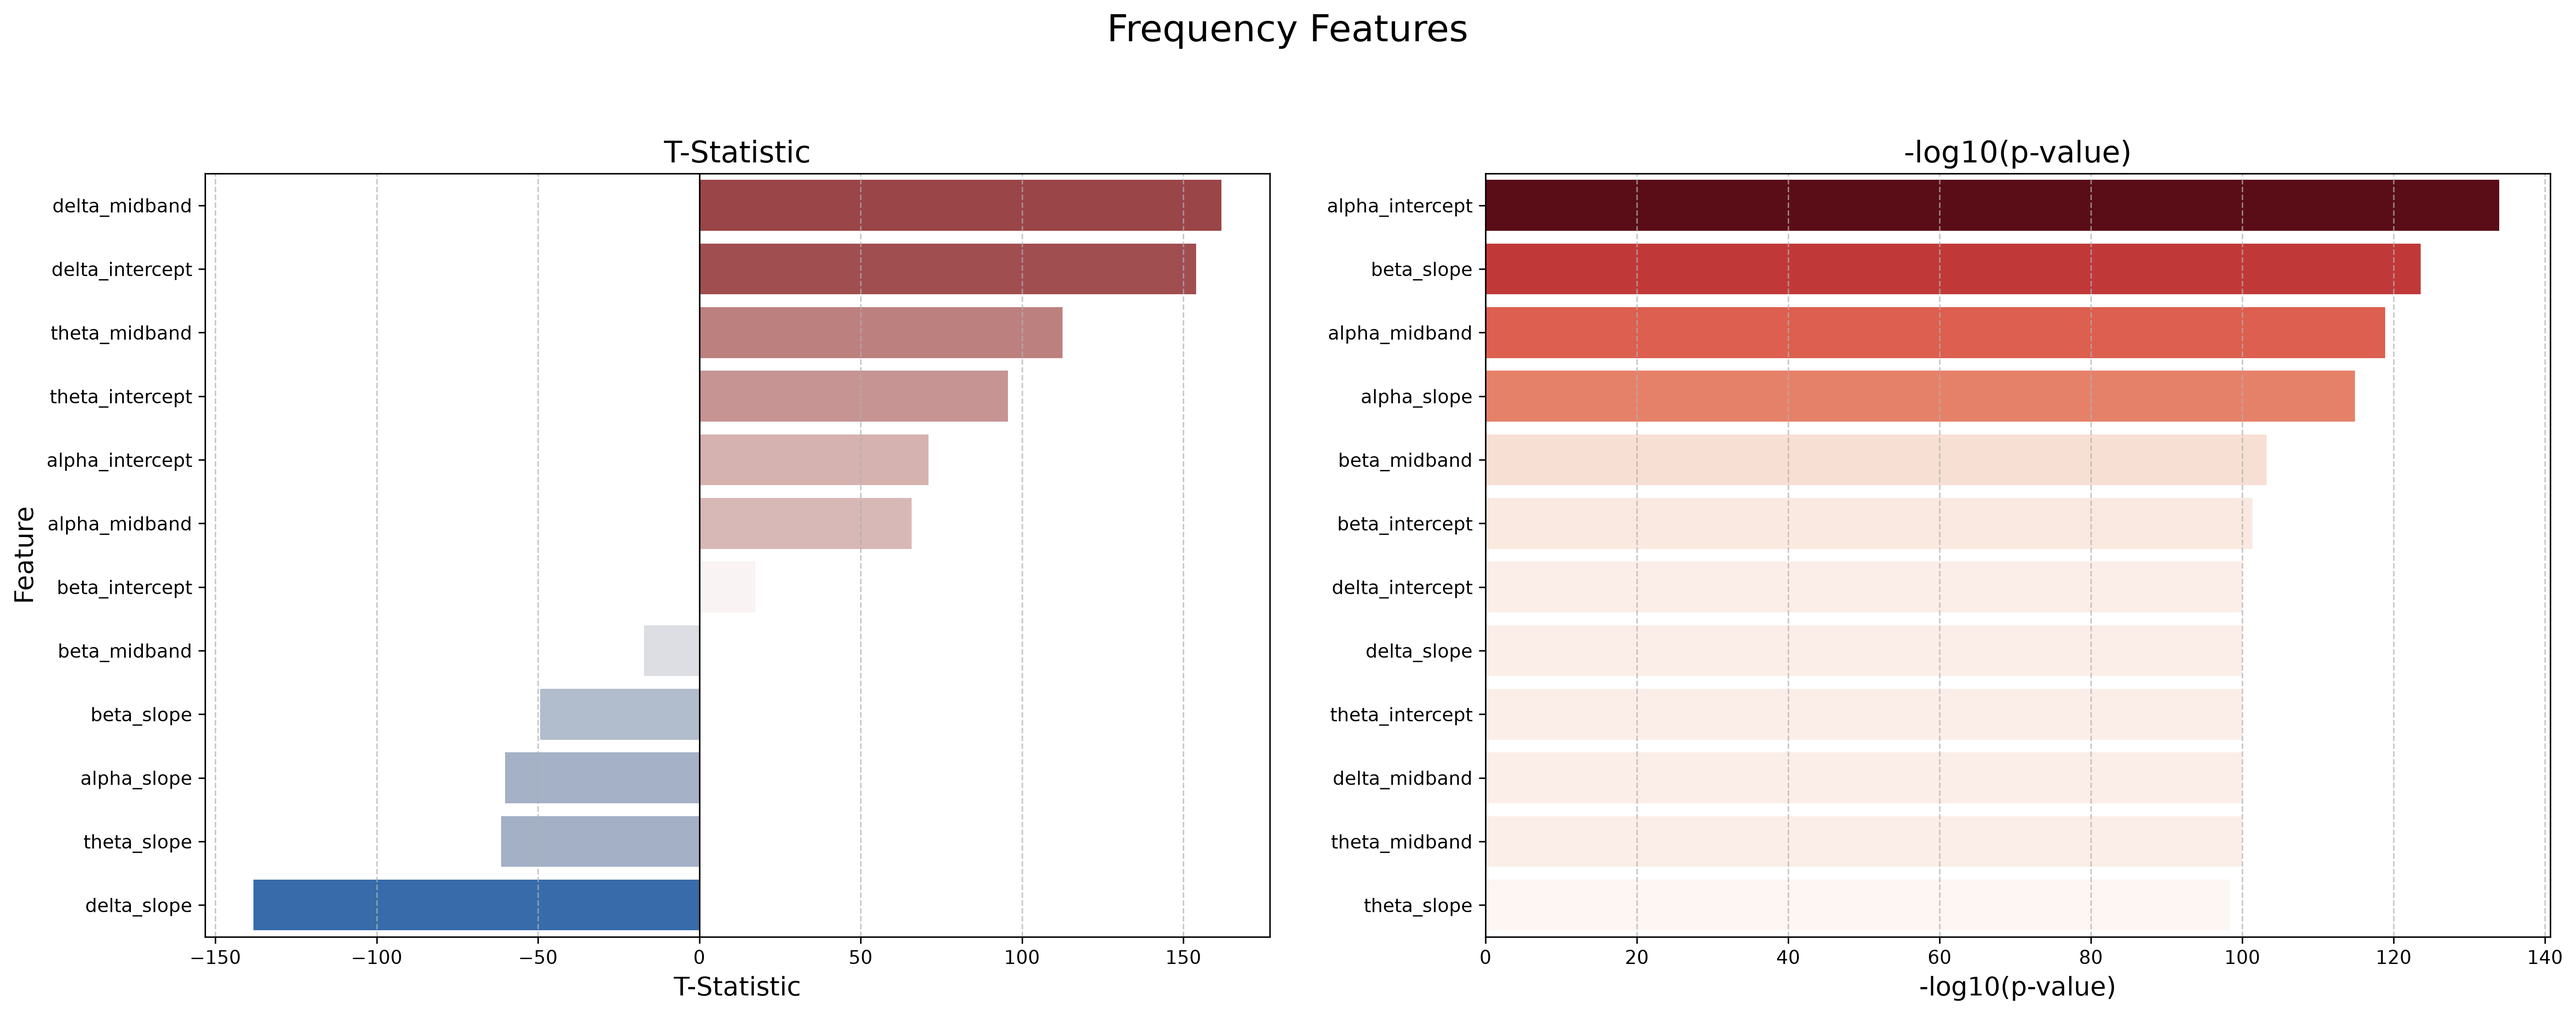
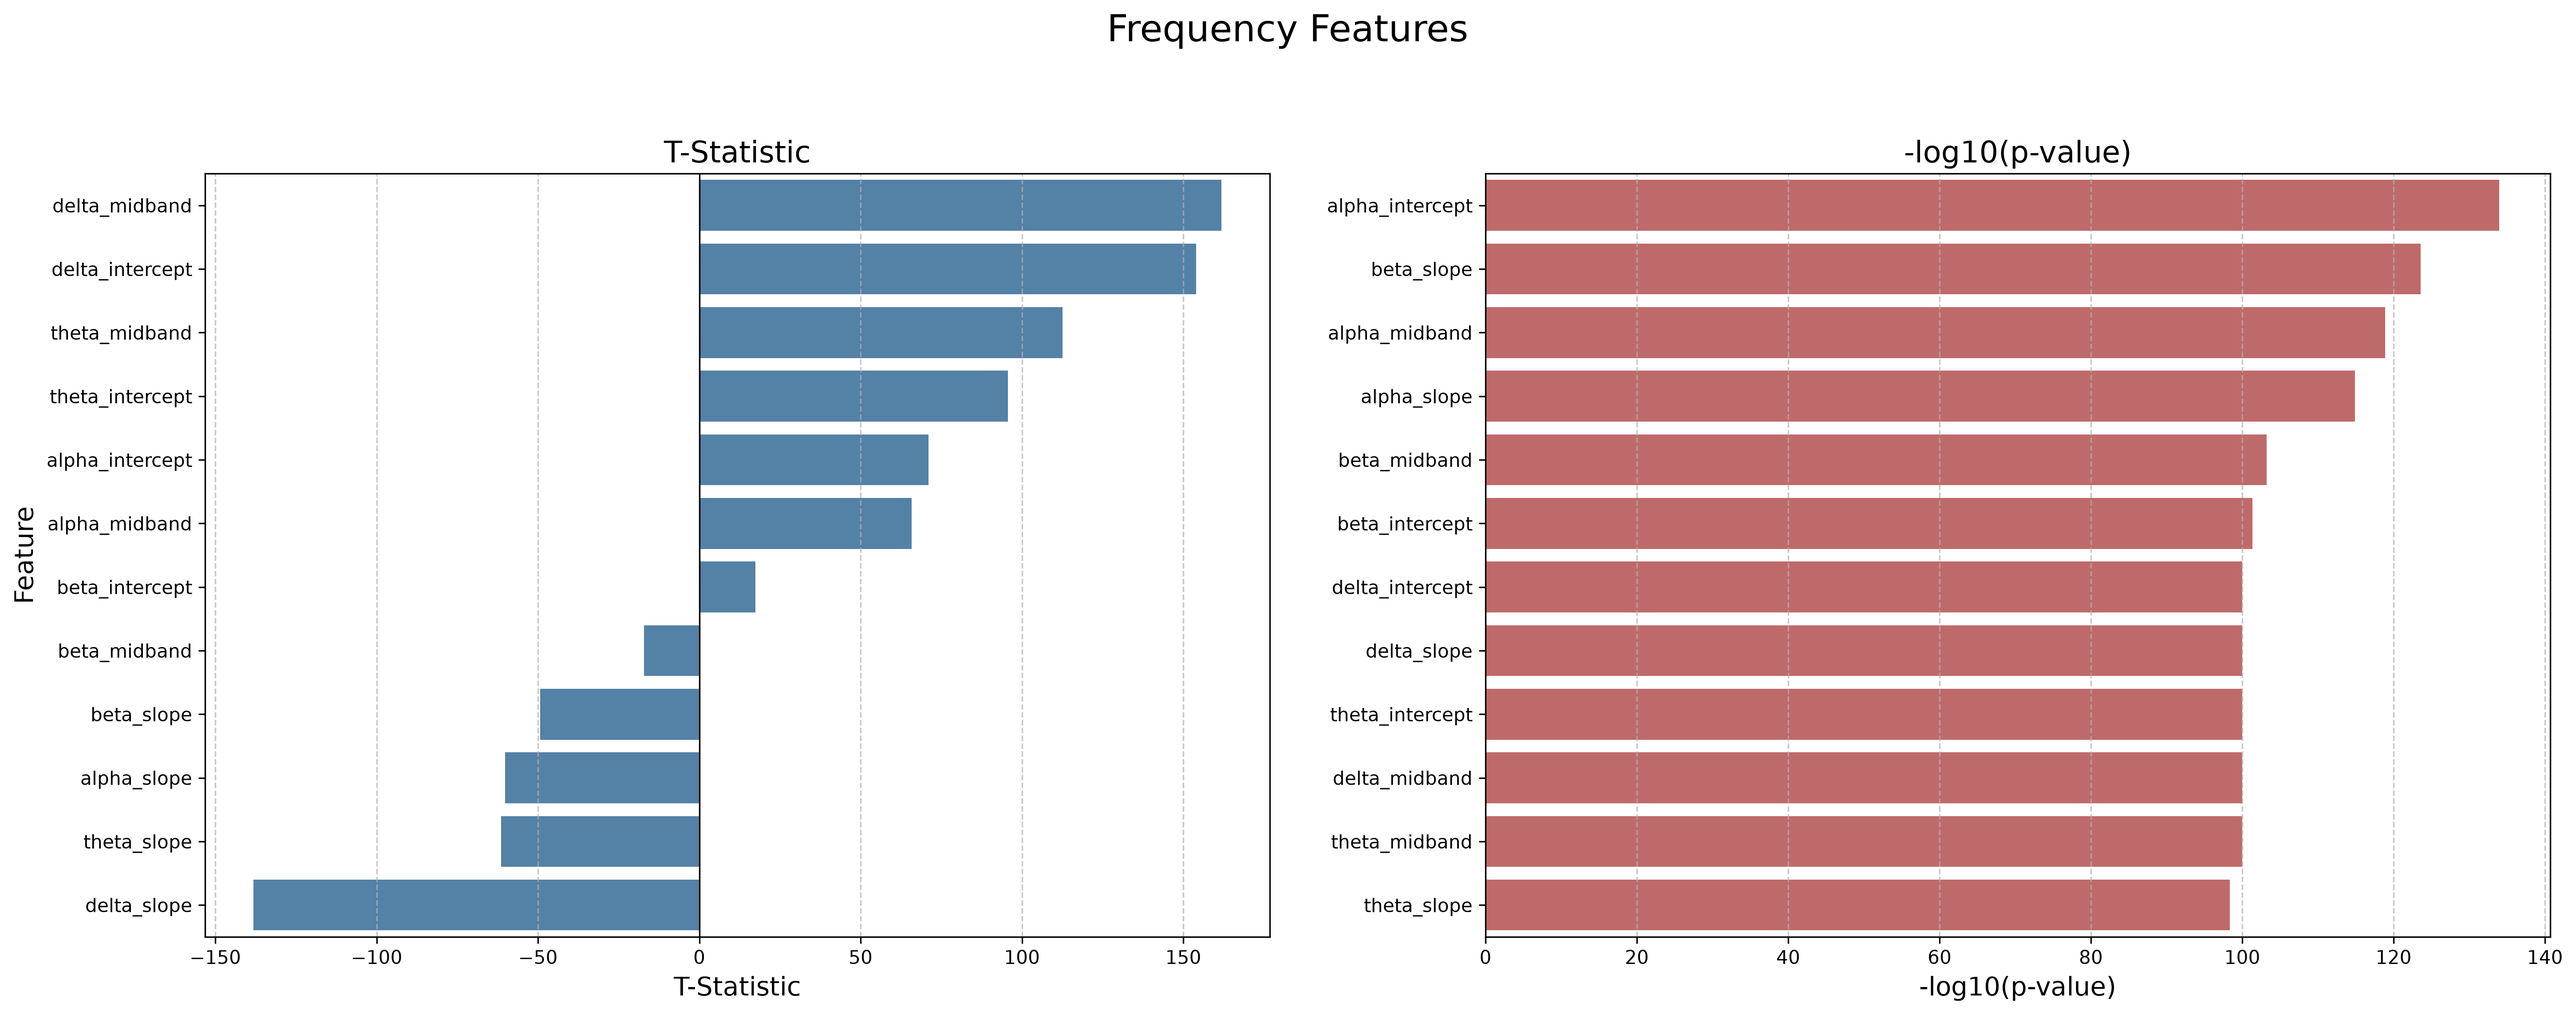
style(legacy2.0): use solid colors for barplots instead of gradients

Changed region(s): [[0.5613, 0.1552, 0.9979, 0.9314], [0.0936, 0.1552, 0.499, 0.9314]]

diff --git a/legacy2.0/generate_ttest_from_json.py b/legacy2.0/generate_ttest_from_json.py
@@ -42,9 +42,7 @@ def generate_figure(df, title, filename):
         data=df_t,
         x='t_stat',
         y='Feature',
-        hue='t_stat',
-        palette="vlag",
-        legend=False,
+        color="steelblue",
         ax=axes[0]
     )
     axes[0].set_title("T-Statistic", fontsize=16)
@@ -59,9 +57,7 @@ def generate_figure(df, title, filename):
         data=df_p,
         x='-log10p',
         y='Feature',
-        hue='-log10p',
-        palette="Reds",
-        legend=False,
+        color="indianred",
         ax=axes[1]
     )
     axes[1].set_title("-log10(p-value)", fontsize=16)
